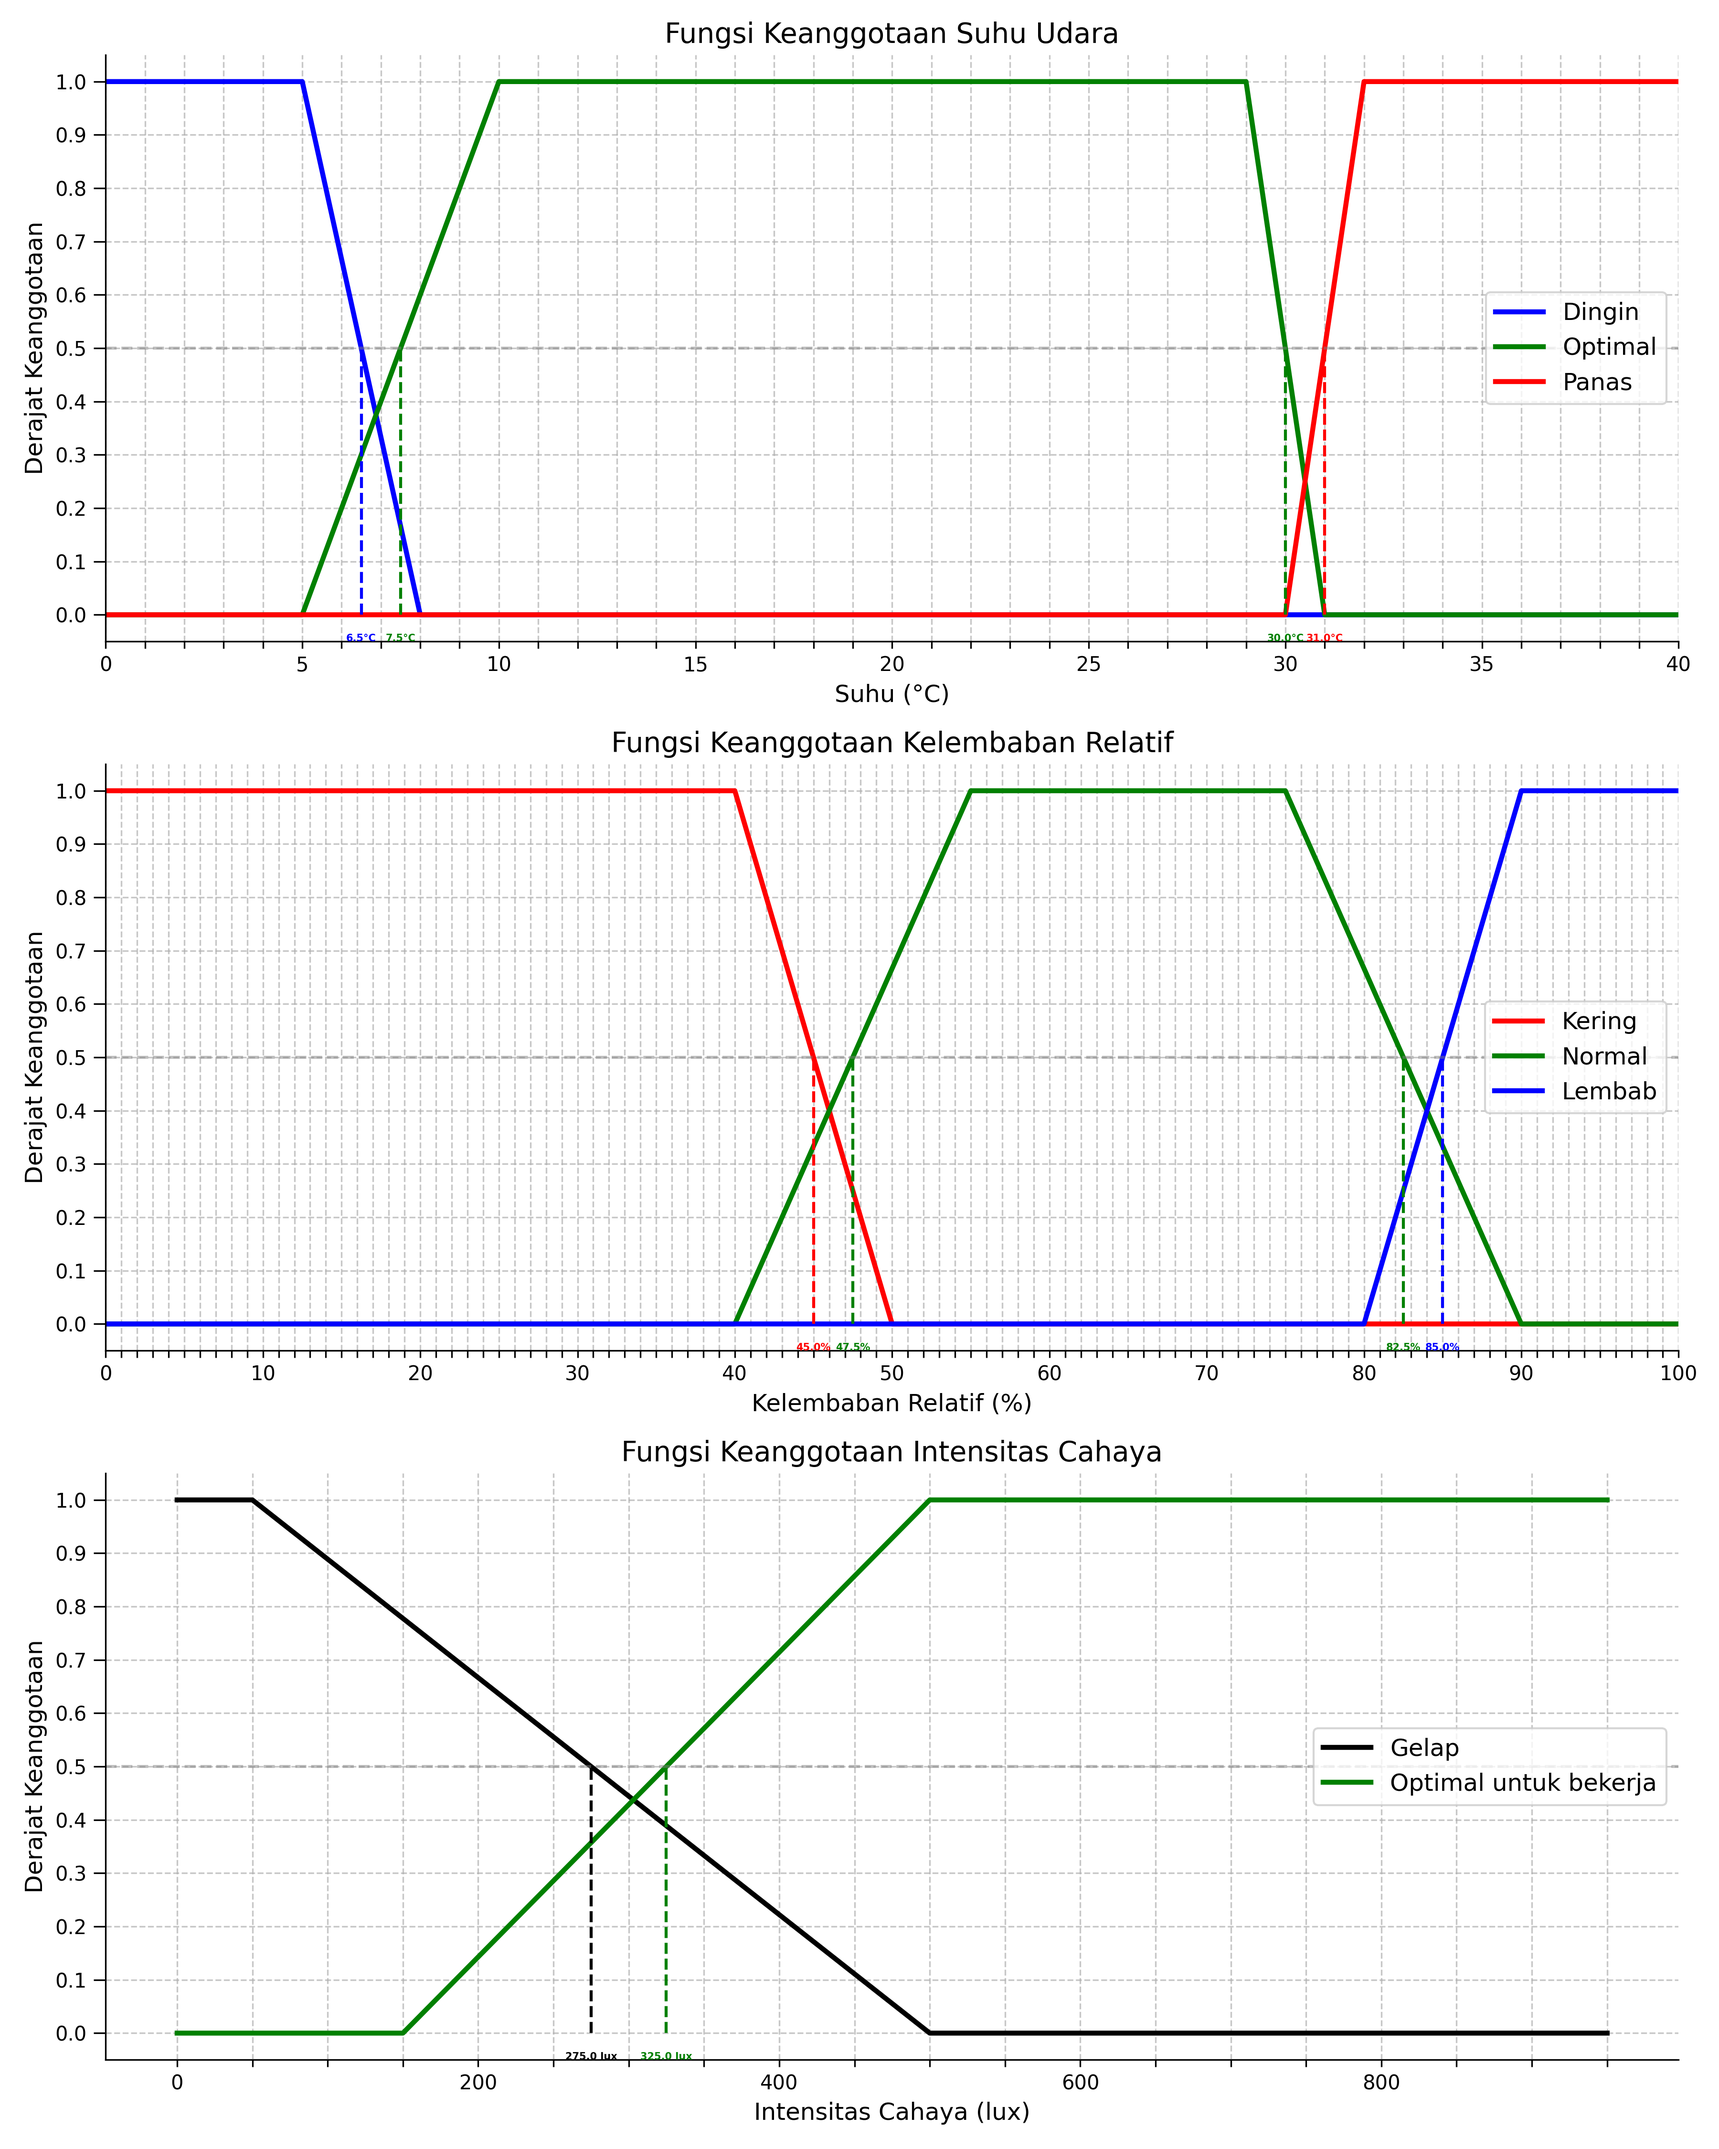
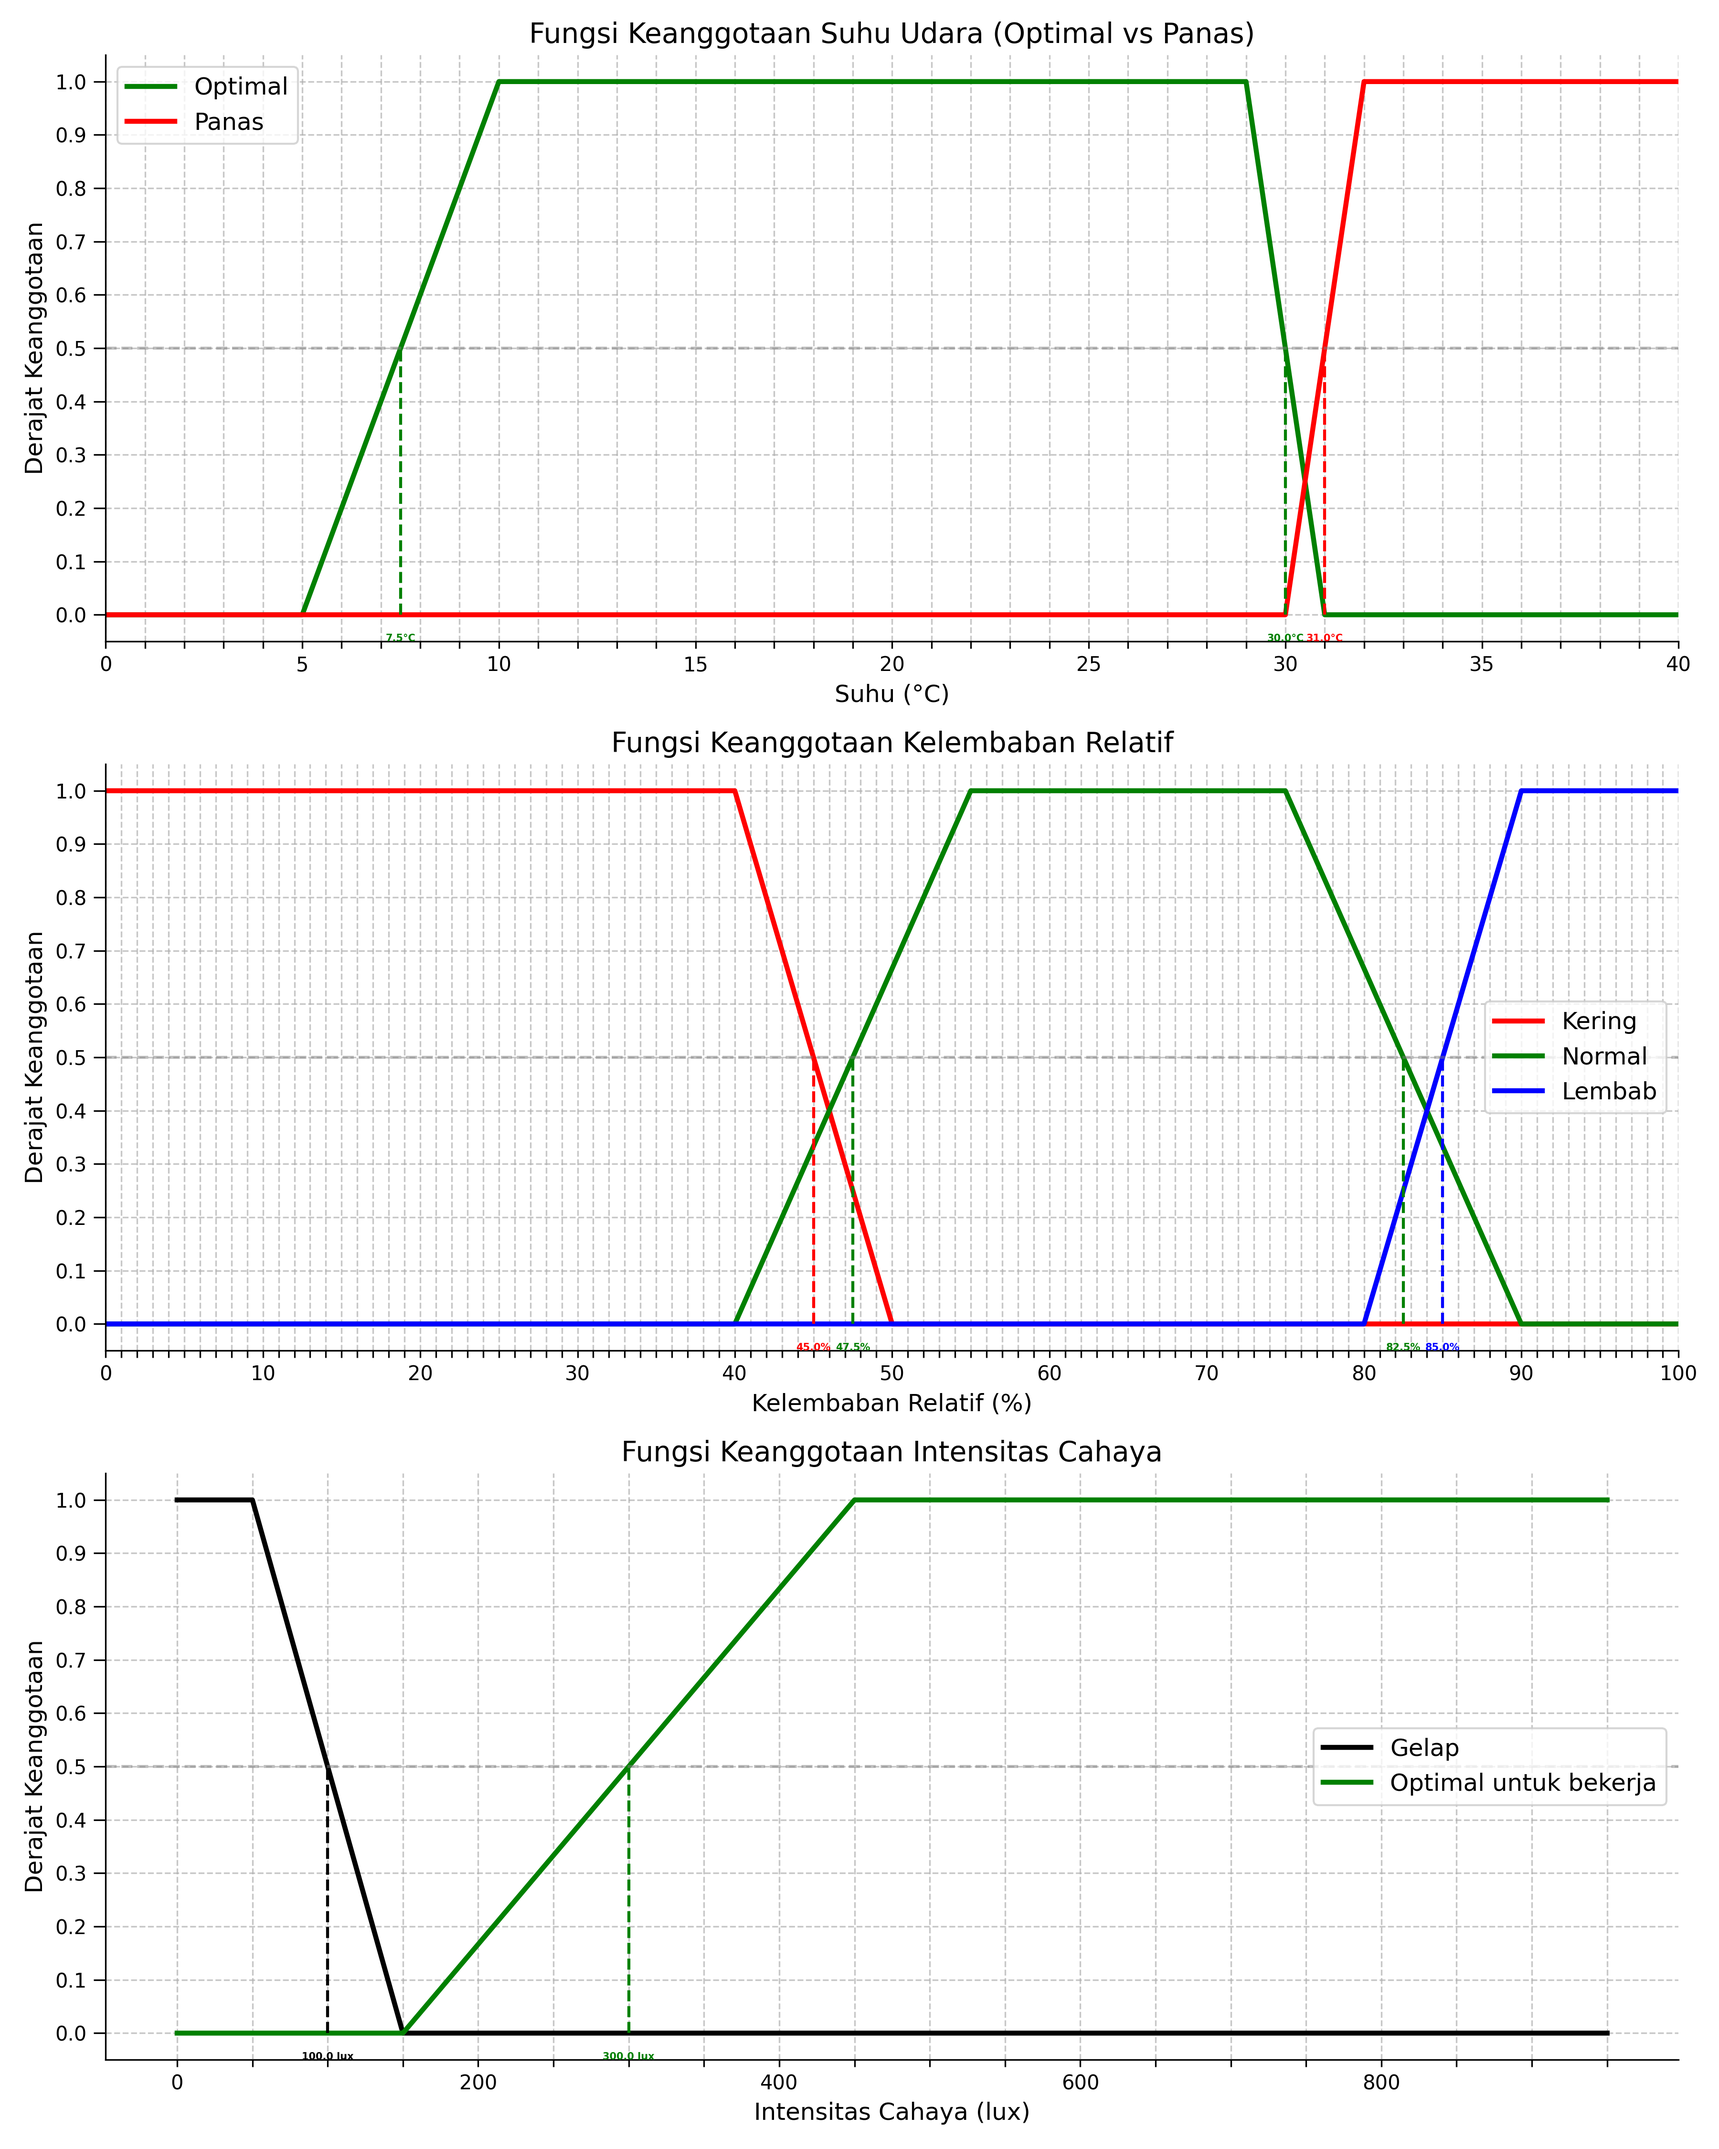
fuzzy changes

diff --git a/static/js/dashboard/config.js b/static/js/dashboard/config.js
@@ -10,5 +10,5 @@ export const CONNECTION_TIMEOUT_DURATION = 8000; // ms to detect connection loss
 export const THRESHOLDS = {
     temp: { low: 9, high: 31, name: "Suhu" }, 
     humidity: { low: 50, high: 85, name: "Kelembapan" }, 
-    light: { dark: 150, name: "Cahaya" } 
+    light: { dark: 100, name: "Cahaya" } 
 };

diff --git a/fuzzy.py b/fuzzy.py
@@ -34,7 +34,7 @@ cahaya = ctrl.Antecedent(light_range, 'Intensitas Cahaya (lux)')
 # ---------------------------------------------------------
 
 # Suhu MFs - Adjusted for better control
-suhu['Dingin'] = fuzz.trapmf(suhu.universe, [-1, -1, 5, 8])      # Falls to 0.5 at 20°C
+# suhu['Dingin'] = fuzz.trapmf(suhu.universe, [-1, -1, 5, 8])      # Falls to 0.5 at 20°C # REMOVED
 suhu['Optimal'] = fuzz.trapmf(suhu.universe, [5, 10, 29, 31])    # Full membership 22-24°C, ends at 27°C
 suhu['Panas'] = fuzz.trapmf(suhu.universe, [30, 32, 40, 40])      # Starts at 27°C, reaches 0.5 at 30°C
 
@@ -45,9 +45,9 @@ kelembaban['Lembab'] = fuzz.trapmf(kelembaban.universe, [80, 90, 100, 100])
 
 # Cahaya MFs
 # DARK_FOR_WORK: Trapezoidal, 100% below 100, zero above 200
-cahaya['Gelap'] = fuzz.trapmf(cahaya.universe, [0, 0, 50, 500])
+cahaya['Gelap'] = fuzz.trapmf(cahaya.universe, [0, 0, 50, 150]) # Adjusted for 0.5 membership at 100 lux
 # ADEQUATE_FOR_WORK: Trapezoidal, zero below 150, 100% above 500
-cahaya['Optimal untuk bekerja'] = fuzz.trapmf(cahaya.universe, [150, 500, 1500, 1500])
+cahaya['Optimal untuk bekerja'] = fuzz.trapmf(cahaya.universe, [150, 450, 1500, 1500]) # Adjusted for 0.5 membership at 300 lux
 
 # ---------------------------------------------------------
 # 3. Plot Fungsi Keanggotaan
@@ -65,8 +65,8 @@ suhu_zoom['Optimal'] = fuzz.trapmf(suhu_zoom.universe, [5, 10, 29, 30])
 suhu_zoom['Panas'] = fuzz.trapmf(suhu_zoom.universe, [29, 31, 40, 40])
 
 # Plot Suhu
-ax0.set_title('Fungsi Keanggotaan Suhu Udara', fontsize=14)
-ax0.plot(temp_range, suhu['Dingin'].mf, 'b', linewidth=2.5, label='Dingin')
+ax0.set_title('Fungsi Keanggotaan Suhu Udara (Optimal vs Panas)', fontsize=14) # MODIFIED TITLE
+# ax0.plot(temp_range, suhu['Dingin'].mf, 'b', linewidth=2.5, label='Dingin') # REMOVED
 ax0.plot(temp_range, suhu['Optimal'].mf, 'g', linewidth=2.5, label='Optimal')
 ax0.plot(temp_range, suhu['Panas'].mf, 'r', linewidth=2.5, label='Panas')
 ax0.set_ylabel('Derajat Keanggotaan', fontsize=12)
@@ -87,15 +87,6 @@ ax0.set_xlim([0, 40])
 ax0.axhline(y=0.5, color='gray', linestyle='--', alpha=0.5)
 
 # Find and mark the 0.5 membership intersections for each temperature function
-# For Dingin-Optimal transition
-dingin_mf = suhu['Dingin'].mf
-for i in range(len(temp_range)-1):
-    if (dingin_mf[i] >= 0.5 and dingin_mf[i+1] < 0.5):
-        dingin_x = np.interp(0.5, [dingin_mf[i+1], dingin_mf[i]], [temp_range[i+1], temp_range[i]])
-        ax0.plot([dingin_x, dingin_x], [0, 0.5], 'b--', linewidth=1.5)
-        ax0.text(dingin_x,  -0.05, f'{dingin_x:.1f}°C', fontsize=5, ha='center', color='blue', weight='bold')
-        break
-
 # For Optimal-Panas transition (around 30°C)
 optimal_mf = suhu['Optimal'].mf
 panas_mf = suhu['Panas'].mf
@@ -213,7 +204,7 @@ for i in range(0, len(light_range)-1):  # Check full range to find intersection
 
 # For Optimal
 optimal_mf = cahaya['Optimal untuk bekerja'].mf
-for i in range(6, len(light_range)-1):  # Check in reasonable range (~300-350 lux)
+for i in range(0, len(light_range)-1):  # Check full range for rising slope
     if (optimal_mf[i] < 0.5 and optimal_mf[i+1] >= 0.5):
         optimal_x = np.interp(0.5, [optimal_mf[i], optimal_mf[i+1]], [light_range[i], light_range[i+1]])
         ax2.plot([optimal_x, optimal_x], [0, 0.5], 'g--', linewidth=1.5)
@@ -234,8 +225,8 @@ ax_zoom.spines['right'].set_visible(False)
 ax_zoom.grid(True, linestyle='--', alpha=0.7)
 ax_zoom.set_yticks(np.arange(0, 1.1, 0.1))
 ax_zoom.set_yticklabels([f"{y:.1f}" for y in np.arange(0, 1.1, 0.1)], fontsize=10)
-ax_zoom.set_xticks(np.arange(28, 32.1, 0.2))
-ax_zoom.set_xlim([28, 32])
+ax_zoom.set_xticks(np.arange(29, 31.1, 0.1)) # MODIFIED for finer ticks
+ax_zoom.set_xlim([29, 31]) # MODIFIED for a tighter zoom
 ax_zoom.axhline(y=0.5, color='gray', linestyle='--', alpha=0.5)
 
 # Find intersection with 0.5 line in the zoomed view

diff --git a/Hardware/lib/FuzzyController/FuzzyController.cpp b/Hardware/lib/FuzzyController/FuzzyController.cpp
@@ -16,15 +16,15 @@ FuzzySet* tempHot = new FuzzySet(29, 31, 40, 40);
 // DRY: Trapezoidal, 100% below 40, zero above 50
 FuzzySet* humidityDry = new FuzzySet(-1, -1, 40, 50); // Assuming range starts at -1
 // OPTIMAL: Trapezoidal, 100% from 55-75, dropping to 0 at 40 and 90
-FuzzySet* humidityOptimal = new FuzzySet(40, 55, 75, 90);
+FuzzySet* humidityOptimal = new FuzzySet(40, 55, 80, 85);
 // HUMID: Trapezoidal, zero below 90, 100% above 100
-FuzzySet* humidityHumid = new FuzzySet(80, 90, 100, 100); // Assuming range ends at 100
+FuzzySet* humidityHumid = new FuzzySet(80, 85, 100, 100); // Assuming range ends at 100
 
 // Light Input Sets (Range: 0-1000 lux)
 // DARK: Trapezoidal, 100% from 0-100, dropping linearly to 0 at 350
-FuzzySet* lightDark = new FuzzySet(0, 0, 150, 350);
+FuzzySet* lightDark = new FuzzySet(0, 0, 100, 300);
 // ADEQUATE: Trapezoidal, 0 below 150, rising linearly to 100% at 400
-FuzzySet* lightAdequate = new FuzzySet(150, 350, 1000, 1000);
+FuzzySet* lightAdequate = new FuzzySet(100, 300, 1000, 1000);
 
 
 // Output Sets (Simple ON/OFF representation, Range 0-1)
